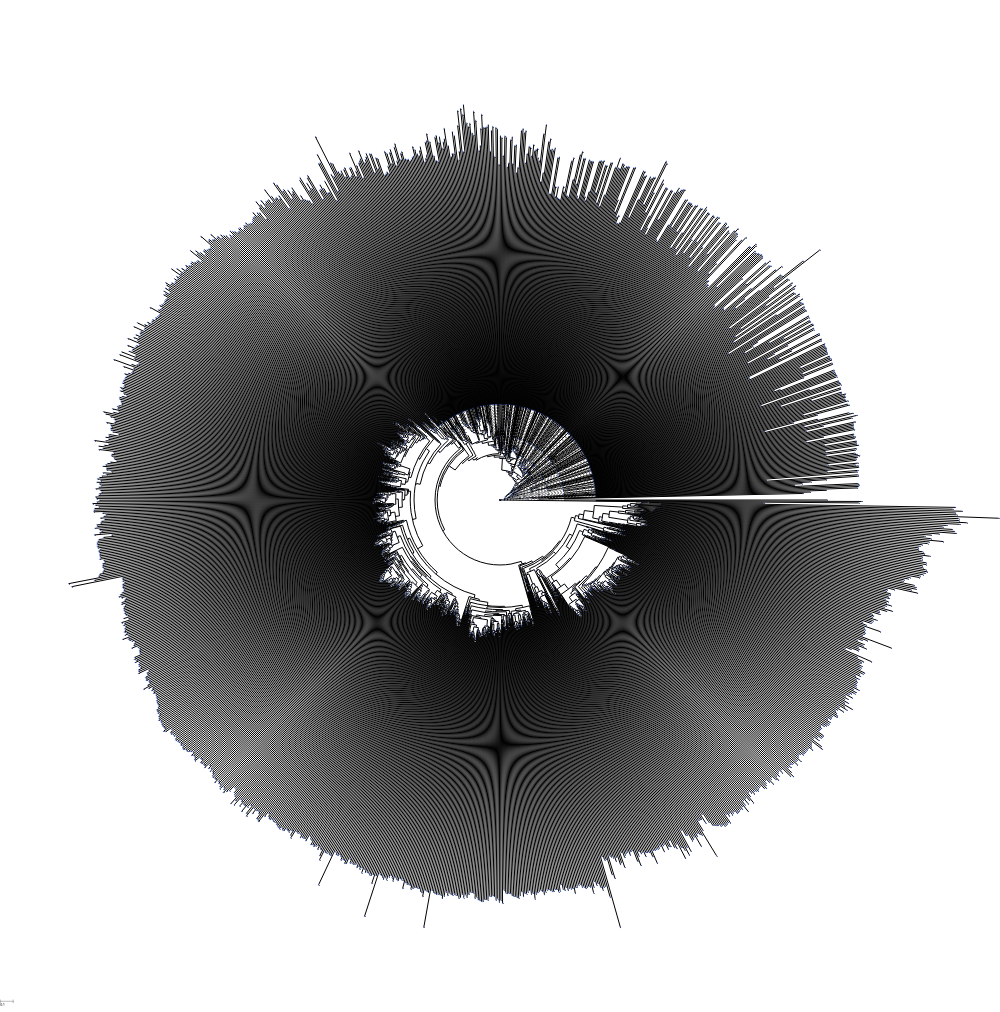
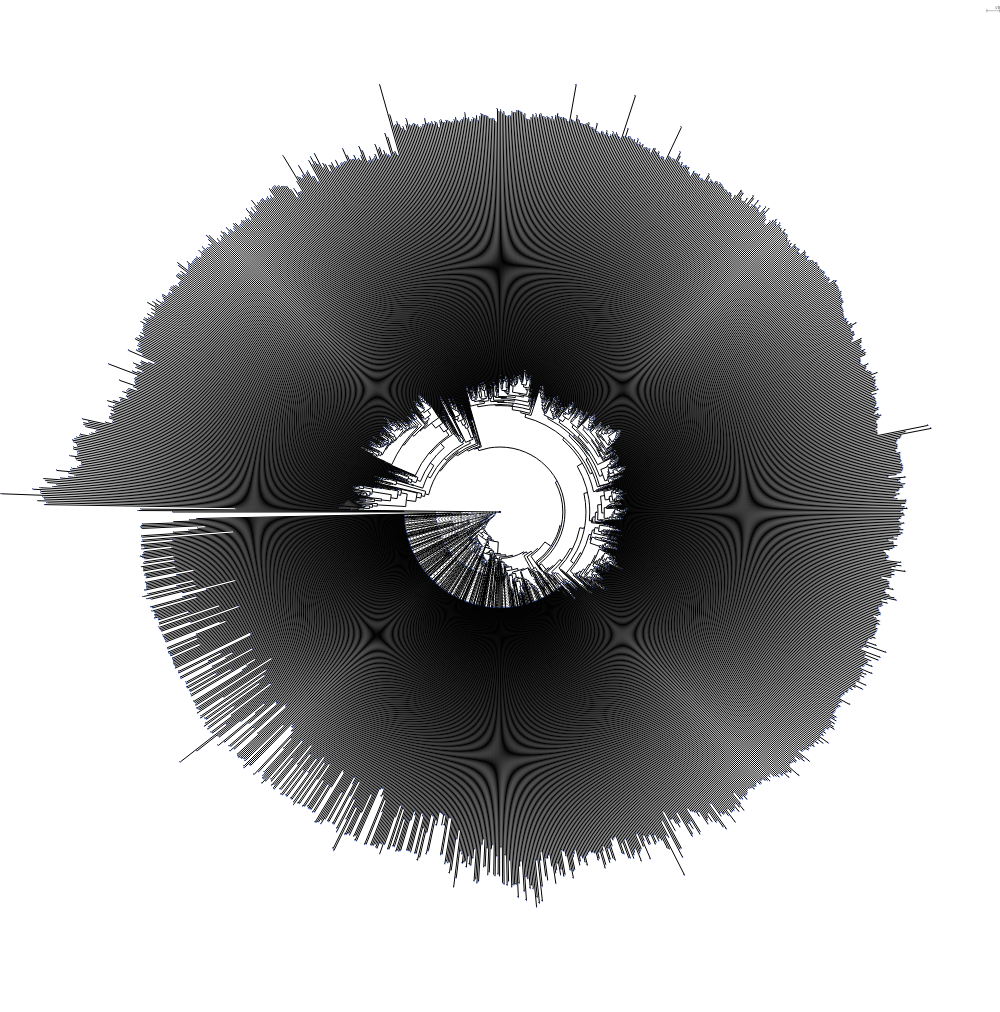
new

Changed region(s): [[0.031, 0.0919, 0.961, 0.8883]]

diff --git a/software/she_app.py b/software/she_app.py
@@ -12,8 +12,8 @@ import textwrap
 import time
 import os
 
-#source ./venv/bin/activate
-#streamlit run ./Documents/GitHub/SHE_app/software/she_app.py
+# source ~/.venv/bin/activate 
+# streamlit run ~/Documents/GitHub/SHE_app/software/she_app.py
 github_path = '/Users/diandra/Documents/GitHub/' #change to your path
 #FUNCTIONS -----------------------------------------------------------------------------------------------------------------------------------
 #@st.cache_data
@@ -598,7 +598,7 @@ if st.session_state.show_tree:
         what = kingdom
         st.page_link("https://en.wikipedia.org/wiki/" + what, label="Wiki", icon="🌎")
     st.image(
-        kingdom_tree_out, #main_tree_out
+        kingdom_tree_out, # main_tree_out
         caption= kingdom + ' Phylogenetic Tree',
         width='stretch'
     )
@@ -739,13 +739,20 @@ if st.sidebar.checkbox('Find taxon'): #it does not handle two new taxa in the sa
 ## Proteins extraction
 st.sidebar.subheader('Look for a protein')
 if st.sidebar.checkbox('Find protein'):
+    protein = ''
     st.title('Tree of all organisms sharing a protein:')
     protein = st.sidebar.text_input(
     'Which protein?', key="protein")
+    st.write('Selected Protein: ', protein)
+    protein_svg = pathlib.Path(github_path + 'SHE_app/results/protein_trees/' + protein +'_presence_tree_*.svg')
     if protein == '':
         st.warning('Please enter protein uniprot ID i.e. W1PLW2')
+    elif protein_svg.exists():
+        st.image(
+            protein_svg, #svg file
+            caption= protein + ' Phylogenetic Tree; red if present, blue if absent in species proteome',
+            width='stretch')
     else:
-        st.write('Selected Protein: ', protein)
         families_csv_path = github_path + 'SHE_app/data/core/protein_families_238.csv' #i.e. ./data/core/protein_families_238.csv
         presence_tree_svg = protein_tree_color(protein, families_csv_path, new_proteomes_path, main_tree_path)
         st.image(
